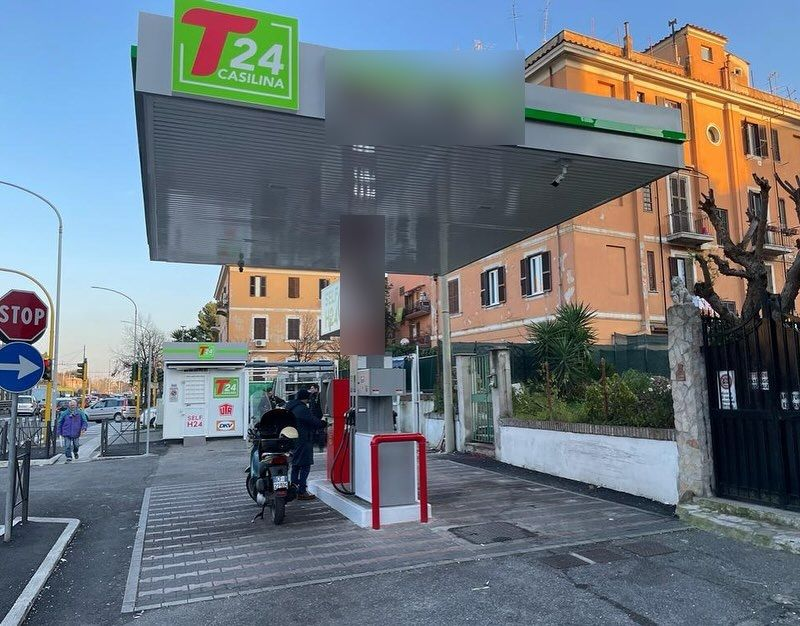
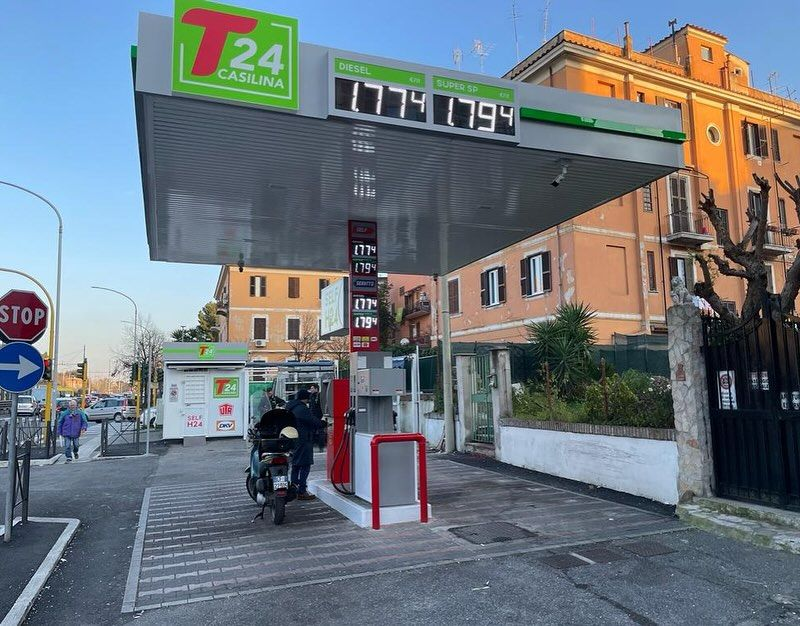
Galleria: foto con prezzi visibili e nota sui prezzi
Claude-Session: https://claude.ai/code/session_01AEzfjPHTWEjgXzQrjMZKXZ

Changed region(s): [[0.4062, 0.0607, 0.6562, 0.2428], [0.4062, 0.3339, 0.5, 0.5767]]

diff --git a/index.html b/index.html
@@ -560,6 +560,7 @@ footer a{color:inherit}
 .gal-it img{display:block;width:100%;aspect-ratio:4/3;object-fit:cover;transition:transform .5s ease}
 .gal-it:hover img{transform:scale(1.04)}
 .gal-it figcaption{position:absolute;left:0;right:0;bottom:0;padding:34px 16px 12px;color:#fff;font-size:15px;background:linear-gradient(transparent,rgba(0,20,43,.85))}
+.gal-note{margin:16px 0 0;font-size:13.5px;color:var(--muted);text-align:center}
 .gal-it figcaption b{color:#ff8a3d;margin-right:4px}
 @media (max-width:760px){.gal{grid-template-columns:1fr 1fr;gap:10px}.gal-it{grid-column:span 1}.gal-it figcaption{font-size:13px;padding:26px 10px 8px}}
 </style>
@@ -1110,7 +1111,8 @@ footer{background:#000b18}
       <p class="kicker">Galleria</p>
       <h2 class="title" id="gal-title">I nostri impianti</h2>
       <p class="lede">Alcune delle stazioni della rete T.Petrol, da Roma all'Agro Pontino. Altre foto in arrivo, anche su Instagram <a href="https://www.instagram.com/tpetrol_srl_/" target="_blank" rel="noopener">@tpetrol_srl_</a>.</p>
-      <div class="gal"><figure class="gal-it"><img src="galleria/sabaudia.jpg" alt="Stazione IP Piazza dei Caduti 21, Borgo Vodice, Sabaudia" loading="lazy" decoding="async"><figcaption><b>IP</b> Borgo Vodice · Sabaudia</figcaption></figure><figure class="gal-it"><img src="galleria/nomentana.jpg" alt="Stazione T24 Via Nomentana 359, Roma" loading="lazy" decoding="async"><figcaption><b>T24</b> Via Nomentana 359 · Roma</figcaption></figure><figure class="gal-it"><img src="galleria/casilina.jpg" alt="Stazione T24 Via Casilina 530, Roma" loading="lazy" decoding="async"><figcaption><b>T24</b> Via Casilina 530 · Roma</figcaption></figure><figure class="gal-it"><img src="galleria/leonardo.jpg" alt="Stazione Q8 Largo Leonardo da Vinci, Roma" loading="lazy" decoding="async"><figcaption><b>Q8</b> Largo Leonardo da Vinci · Roma</figcaption></figure><figure class="gal-it"><img style="object-position:50% 90%" src="galleria/marconi.jpg" alt="Stazione Q8 Via Marconi 700/A, Roma" loading="lazy" decoding="async"><figcaption><b>Q8</b> Via Marconi 700/A · Roma</figcaption></figure><figure class="gal-it"><img src="galleria/bravetta.jpg?v=2" alt="Stazione Q8 Via di Bravetta 312, Roma" loading="lazy" decoding="async"><figcaption><b>Q8</b> Via di Bravetta 312 · Roma</figcaption></figure></div>
+      <div class="gal"><figure class="gal-it"><img src="galleria/sabaudia.jpg?v=2" alt="Stazione IP Piazza dei Caduti 21, Borgo Vodice, Sabaudia" loading="lazy" decoding="async"><figcaption><b>IP</b> Borgo Vodice · Sabaudia</figcaption></figure><figure class="gal-it"><img src="galleria/nomentana.jpg?v=2" alt="Stazione T24 Via Nomentana 359, Roma" loading="lazy" decoding="async"><figcaption><b>T24</b> Via Nomentana 359 · Roma</figcaption></figure><figure class="gal-it"><img src="galleria/casilina.jpg?v=2" alt="Stazione T24 Via Casilina 530, Roma" loading="lazy" decoding="async"><figcaption><b>T24</b> Via Casilina 530 · Roma</figcaption></figure><figure class="gal-it"><img src="galleria/leonardo.jpg?v=2" alt="Stazione Q8 Largo Leonardo da Vinci, Roma" loading="lazy" decoding="async"><figcaption><b>Q8</b> Largo Leonardo da Vinci · Roma</figcaption></figure><figure class="gal-it"><img style="object-position:50% 90%" src="galleria/marconi.jpg?v=2" alt="Stazione Q8 Via Marconi 700/A, Roma" loading="lazy" decoding="async"><figcaption><b>Q8</b> Via Marconi 700/A · Roma</figcaption></figure><figure class="gal-it"><img src="galleria/bravetta.jpg?v=3" alt="Stazione Q8 Via di Bravetta 312, Roma" loading="lazy" decoding="async"><figcaption><b>Q8</b> Via di Bravetta 312 · Roma</figcaption></figure></div>
+      <p class="gal-note">I prezzi visibili nelle foto risalgono al momento dello scatto e non rappresentano i prezzi attuali. I prezzi aggiornati sono nella sezione <a href="#prezzi">Prezzi di oggi</a>.</p>
     </div>
   </section>
 
